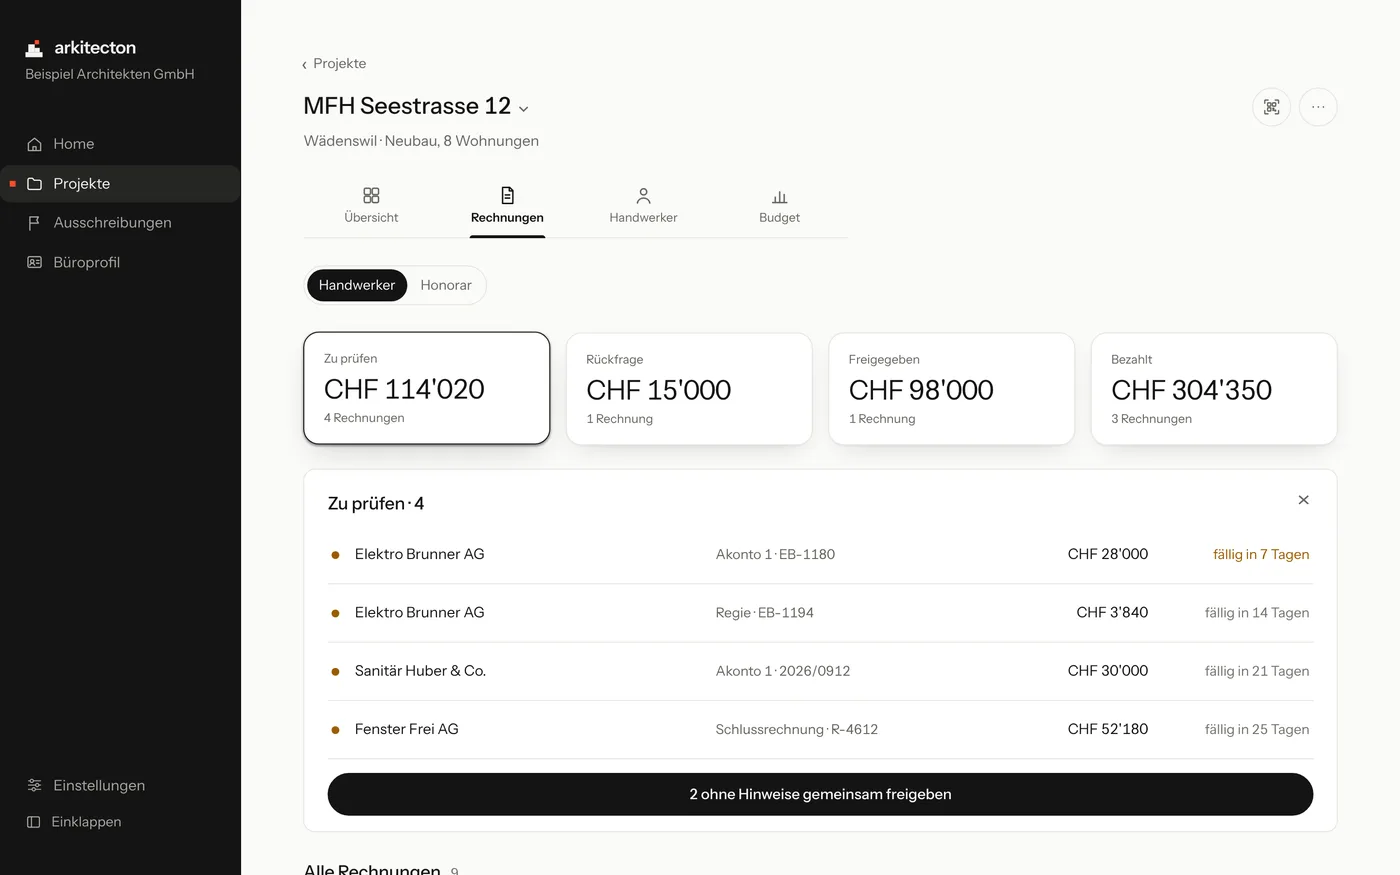
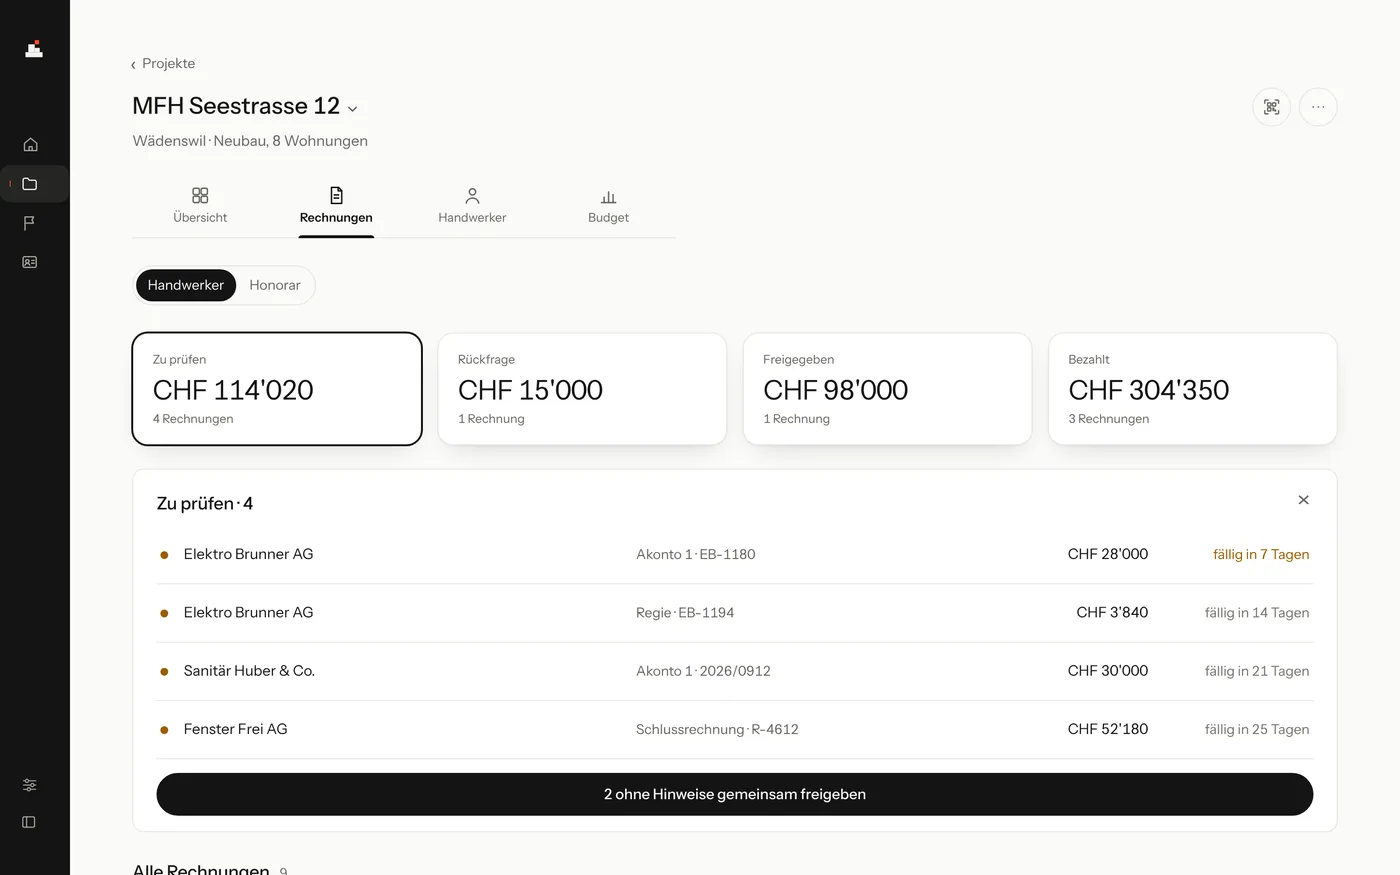
Landingpage: Bilder zu Erfassen, Prüfen, Freigeben mit eingeklappter Leiste und ganz sichtbar (16:10); Reiter Erfassen, Prüfen, Freigeben bleiben beim Wechsel an ihrem Platz
Claude-Session: https://claude.ai/code/session_01BEsssGbumRuGMVM4zunEiK

diff --git a/index.html b/index.html
@@ -79,7 +79,7 @@ section{padding:120px 0}
 .rule{border-top:1px solid var(--line)}
 
 /* So funktioniert es */
-.how{display:grid;grid-template-columns:1fr 1.15fr;gap:64px;align-items:center}
+.how{display:grid;grid-template-columns:1fr 1.15fr;gap:64px;align-items:start}
 .tabs{display:inline-flex;gap:4px;padding:4px;border-radius:999px;background:var(--soft);border:1px solid var(--line)}
 .tabs button{display:flex;align-items:center;gap:9px;min-height:42px;padding:0 18px;border:0;border-radius:999px;background:none;color:var(--muted);font-size:.98rem;cursor:pointer;transition:background .25s,color .25s}
 .tabs button span{width:22px;height:22px;border:1px solid currentColor;border-radius:50%;display:grid;place-items:center;font-size:.72rem}
@@ -93,8 +93,8 @@ section{padding:120px 0}
 .checks li.on i::after{content:"";position:absolute;left:6px;top:2px;width:6px;height:11px;border:solid var(--bg);border-width:0 2px 2px 0;transform:rotate(45deg)}
 .panel{transition:opacity .35s}
 .panel.fade{opacity:0}
-.photo{position:relative;border-radius:18px;overflow:hidden;border:1px solid var(--line);background:var(--soft);aspect-ratio:4/3}
-.photo img{position:absolute;inset:0;width:100%;height:100%;object-fit:cover;object-position:62% top;transition:opacity .45s}
+.photo{position:relative;border-radius:18px;overflow:hidden;border:1px solid var(--line);background:var(--soft);aspect-ratio:16/10}
+.photo img{position:absolute;inset:0;width:100%;height:100%;object-fit:cover;object-position:left top;transition:opacity .45s}
 .photo img.hide{opacity:0}
 
 /* Sorgfältig prüfen */
